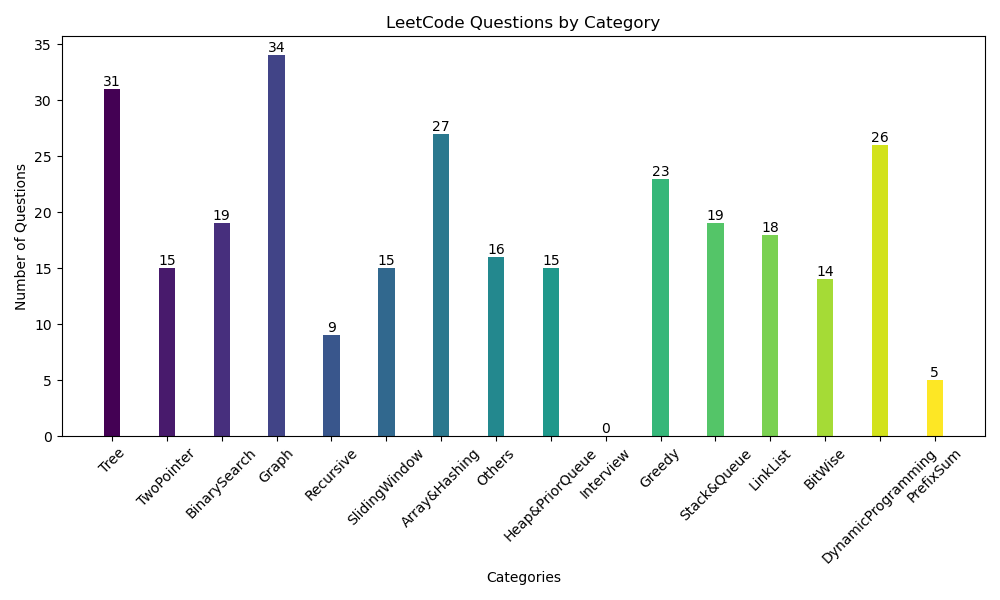
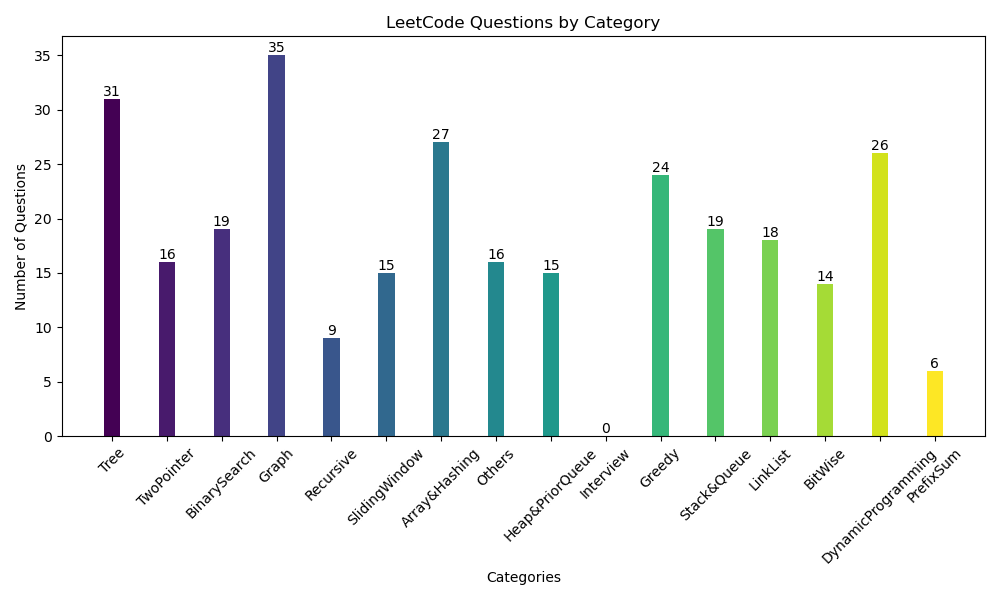
pratices

diff --git a/Graph/785. Is Graph Bipartite?.cpp b/Graph/785. Is Graph Bipartite?.cpp
@@ -7,6 +7,7 @@
     DFS. 兩種set 標示從node 0 開始走, 鄰居node 標示為另一個set,
    如果可以全部走完且不會有neighbor set 同時為 0/1 代表可以形成bipartity graph
 */
+/* Union Find*/
 class UnionFind {
 	vector<int> parent;
 	vector<int> rank;
@@ -40,6 +41,75 @@ class UnionFind {
 		return true;
 	}
 };
+#include <iostream>
+using namespace std;
+/*
+    Union Find, 每個node neighbor都和自己屬於不同union group, 每個node check
+   find(u) == find(u) return false, 然後neighbor都union 成同一個group
+
+    DFS. 兩種set 標示從node 0 開始走, 鄰居node 標示為另一個set,
+   如果可以全部走完且不會有neighbor set 同時為 0/1 代表可以形成bipartity graph
+*/
+class UnionFind {
+  public:
+	vector<int> parent;
+	vector<int> rank;
+	UnionFind(int n) {
+		for (int i = 0; i < n; ++i) {
+			parent.push_back(i);
+		}
+		rank.resize(n, 0);
+	}
+	int Find(int x) {
+		// connect to other node, must a node parent is itself
+		if (parent[x] != x) {
+			parent[x] = Find(parent[x]);
+		}
+		return parent[x];
+	}
+	bool Union(int x, int y) {
+		int root_x = Find(x);
+		int root_y = Find(y);
+
+		if (root_x == root_y)
+			return false; // already union
+		if (rank[root_x] > rank[root_y]) {
+			parent[root_y] = parent[root_x];
+		} else if (rank[root_x] < rank[root_y])
+			parent[root_x] = parent[root_y];
+		else {
+			parent[root_y] = parent[root_x];
+			++rank[root_x];
+		}
+		return true;
+	}
+};
+class Solution {
+  public:
+	bool isBipartite(vector<vector<int>> &graph) {
+		// initialized union for every node
+		int n = graph.size();
+		UnionFind uf(n);
+		for (int node = 0; node < graph.size(); ++node) {
+			// find(u) == find(v) return false(need different group from node to
+			// neighbor)
+			for (int &nei : graph[node]) {
+				if (uf.Find(node) == uf.Find(nei))
+					return false;
+			}
+			// Union all neighbors
+			if (graph[node].empty())
+				continue;
+			int nei_0 = graph[node][0];
+			for (int j = 1; j < graph[node].size(); ++j) {
+				int nei = graph[node][j];
+				uf.Union(nei_0, nei);
+			}
+		}
+		return true;
+	}
+};
+/* DFS */
 class Solution {
   public:
 	bool isBipartite(vector<vector<int>> &graph) {

diff --git a/Greedy/122. Best Time to Buy and Sell Stock II.cpp b/Greedy/122. Best Time to Buy and Sell Stock II.cpp
@@ -1,0 +1,58 @@
+/*
+    greedy, 每次hold nums[i], 看到num[j] 比較大就賣掉, 然後買入num[j],
+   nums[j]比較小就改買num[j]
+
+    dp[i][sell/buy] 表示在i-day sell/buy的max profit
+
+    return max(dp[0][buy], dp[0][sell])
+*/
+class Solution {
+  public:
+	int maxProfit(vector<int> &prices) {
+		int profit = 0;
+		int hold = prices[0];
+		for (int i = 1; i < prices.size(); ++i) {
+			if (prices[i] > hold) {
+				profit += prices[i] - hold;
+			}
+			hold = prices[i];
+		}
+		return profit;
+	}
+};
+/*
+
+    dp[i][sell/buy] 表示在i-day sell/buy的max profit
+
+    return max(dp[0][buy], dp[0][sell])
+*/
+class Solution {
+  public:
+	vector<vector<int>> dp;
+	int maxProfit(vector<int> &prices) {
+		int n = prices.size();
+		dp.resize(n, vector<int>(2, -1)); // [i-day][buy/sell]
+		return max(dfs(prices, 0, 0), -prices[0] + dfs(prices, 0, 1));
+	}
+	int dfs(vector<int> &prices, int i, int hold_stock) {
+		if (i == prices.size())
+			return 0;
+		if (dp[i][hold_stock] != -1)
+			return dp[i][hold_stock];
+		// skip
+		int skip_profit = dfs(prices, i + 1, hold_stock);
+		int used_profit;
+
+		if (hold_stock == 0) {
+			// buy
+			used_profit = -prices[i] + dfs(prices, i + 1, 1);
+			dp[i][0] = max(used_profit, skip_profit);
+			return dp[i][0];
+		} else {
+			// sell
+			used_profit = prices[i] + dfs(prices, i + 1, 0);
+			dp[i][1] = max(used_profit, skip_profit);
+			return dp[i][1];
+		}
+	}
+};

diff --git a/Graph/787. Cheapest Flights Within K Stops.cpp b/Graph/787. Cheapest Flights Within K Stops.cpp
@@ -1,0 +1,45 @@
+/*
+    不能用shortest path, 因為可能最短路徑是 > k stop,導致某些 < k 的被skip
+    1. 有可能某條花費低的路徑，在達到 dst 時超過了 k stop
+    2. 反而某些花費略高但 stop 較少的路徑，可以在限制內達到 dst
+
+    sol. (因為是k stop)用單純的BFS 走 k + 1 step,
+   然後回傳可以抵達dst的最小money, 如果cur_money > 最小money, 這條路徑就沒用了
+
+*/
+#include <iostream>
+using namespace std;
+#define Tuple tuple<int, int, int> // {money, node, stop}
+#define Pair pair<int, int>
+class Solution {
+  public:
+	int findCheapestPrice(int n, vector<vector<int>> &flights, int src, int dst,
+	                      int k) {
+		vector<vector<Pair>> graph(n);
+		vector<int> dist(n, INT_MAX);
+		// create graph
+		for (auto &f : flights)
+			graph[f[0]].push_back({f[1], f[2]});
+		queue<Pair> q;
+		q.push({src, 0});
+		int step = 0;
+		while (!q.empty() && step <= k + 1) {
+			int size = q.size();
+			for (int i = 0; i < size; ++i) {
+				auto [node, money] = q.front();
+				q.pop();
+				if (money > dist[node])
+					continue;
+				else
+					dist[node] = money;
+				// push neighbor to queue
+				for (auto &nei : graph[node]) {
+
+					q.push({nei.first, money + nei.second});
+				}
+			}
+			++step;
+		}
+		return dist[dst] == INT_MAX ? -1 : dist[dst];
+	}
+};

diff --git a/TwoPointer/594. Longest Harmonious Subsequence.cpp b/TwoPointer/594. Longest Harmonious Subsequence.cpp
@@ -1,0 +1,44 @@
+/*
+    sol.1 暴力法, 每個num[i] 都去找相同數字nums[j] 跟 nums[j] = nums[i] +
+   1的次數, 然後決定最大值, O(n^2) sol.2 hashtable先算出每個num[i] 有多少個,
+   如果count[nums[i] + 1] 存在, 那subseq 就會是count[nums[i]] + count[nums[i] +
+   1] time O(n), space O(n)
+
+    sol.3 sorting, 然後two pointer 尋找符合 nums[r] - nums[l] == 1的合法windows
+
+*/
+/* Hashtable */
+class Solution {
+  public:
+	int findLHS(vector<int> &nums) {
+		unordered_map<int, int> num_cnt;
+		int max_subseq = 0;
+		for (int &num : nums)
+			++num_cnt[num];
+		for (auto &nc : num_cnt) {
+			if (num_cnt.count(nc.first + 1) > 0) {
+				int max_val = num_cnt[nc.first + 1];
+				max_subseq = max(max_subseq, nc.second + max_val);
+			}
+		}
+		return max_subseq;
+	}
+};
+/* Sorting + Two pointer*/
+class Solution {
+  public:
+	int findLHS(vector<int> &nums) {
+		sort(nums.begin(), nums.end());
+		int l = 0;
+		int max_subseq = 0;
+		for (int r = 0; r < nums.size(); ++r) {
+			while (nums[r] - nums[l] > 1)
+				++l;
+
+			// avoid repeat nums like [1,1,1,1]
+			if (nums[r] - nums[l] == 1)
+				max_subseq = max(max_subseq, r - l + 1);
+		}
+		return max_subseq;
+	}
+};

diff --git a/PrefixSum/3333. Find the Original Typed String II.cpp b/PrefixSum/3333. Find the Original Typed String II.cpp
@@ -1,0 +1,34 @@
+/*
+    先看distinct char num, 也就是at least num i, 每次nums[i + 1] = nums[i] + num
+   rest char in hashtable
+
+    n = word.size
+    at least k = prefix[n - 1] - prefix[k]
+*/
+#include <iostream>
+#include <vector>
+using namespace std;
+class Solution {
+  public:
+	int possibleStringCount(string word, int k) {
+		int n = word.length();
+		int num_dis = 0;
+		vector<int> prefix(n, 0);
+		vector<char> num_chars(26, 0);
+		for (char &c : word) {
+			if (num_chars[c] == 0)
+				++num_dis;
+			++num_chars[c];
+		}
+		for (int i = num_dis; i < n; ++i) {
+			prefix[i] = prefix[i - 1];
+			for (int j = 0; j < 26; ++j) {
+				if (num_chars[j] > 0) {
+					--num_chars[j];
+					++prefix[i];
+				}
+			}
+		}
+		return prefix[n - 1] - prefix[k];
+	}
+};

diff --git a/README.md b/README.md
@@ -1,7 +1,7 @@
 # LeetCode Problems
 
 ❌  can't resolve without solution: 32
-📝  can't resolve without hint: 205
+📝  can't resolve without hint: 209
 ✅  resolve by self: 49
 ## Tree
 - ❌ 105. Construct Binary Tree from Preorder and Inorder Traversal
@@ -49,6 +49,7 @@
 - 📝 twoSum2
 - 📝 1498. Number of Subsequences That Satisfy the Given Sum Condition
 - 📝 validParlindrome
+- 📝 594. Longest Harmonious Subsequence
 - ✅ reverseStr
 - ✅ mergeStr
 - ✅ 881. Boats to Save People
@@ -78,6 +79,7 @@
 - ❌ 1857. Largest Color Value in a Directed Graph
 - ❌ islandTreasure
 - ❌ 1579. Remove Max Number of Edges to Keep Graph Fully Traversable
+- 📝 787. Cheapest Flights Within K Stops
 - 📝 1584. Min Cost to Connect All Points
 - 📝 3342. Find Minimum Time to Reach Last Room II
 - 📝 2359. Find Closest Node to Given Two Nodes
@@ -209,6 +211,7 @@
 - ❌ MergeTripletsFormTarget
 - ❌ 3577. Count the Number of Computer Unlocking Permutations
 - 📝 2434. Using a Robot to Print the Lexicographically Smallest String
+- 📝 122. Best Time to Buy and Sell Stock II
 - 📝 1791. Find Center of Star Graph
 - 📝 135. Candy
 - 📝 jumpGame
@@ -317,12 +320,13 @@
 ## PrefixSum
 - ❌ 3355. Zero Array Transformation I
 - ❌ 3356. Zero Array Transformation II
+- 📝 3333. Find the Original Typed String II
 - 📝 1838. Frequency of the Most Frequent Element
 - 📝 1664. Ways to Make a Fair Array
 - 📝 2574. Left and Right Sum Differences
 
 ## Statistics
-Current total questions: 283
+Current total questions: 287
 
 <img src="chart.png" alt="questions bar chart" width="500">
 

diff --git a/Graph/README.md b/Graph/README.md
@@ -7,7 +7,8 @@
 rottingFruit
 Keys and Rooms
 
-1298. Maximum Candies You Can Get from Boxes
+1298 Maximum Candies You Can Get from Boxes
+787 Cheapest Flights Within K Stops.cpp( 容易跟 shortest path 混淆)
 
 ### kahn's algorithm
 
